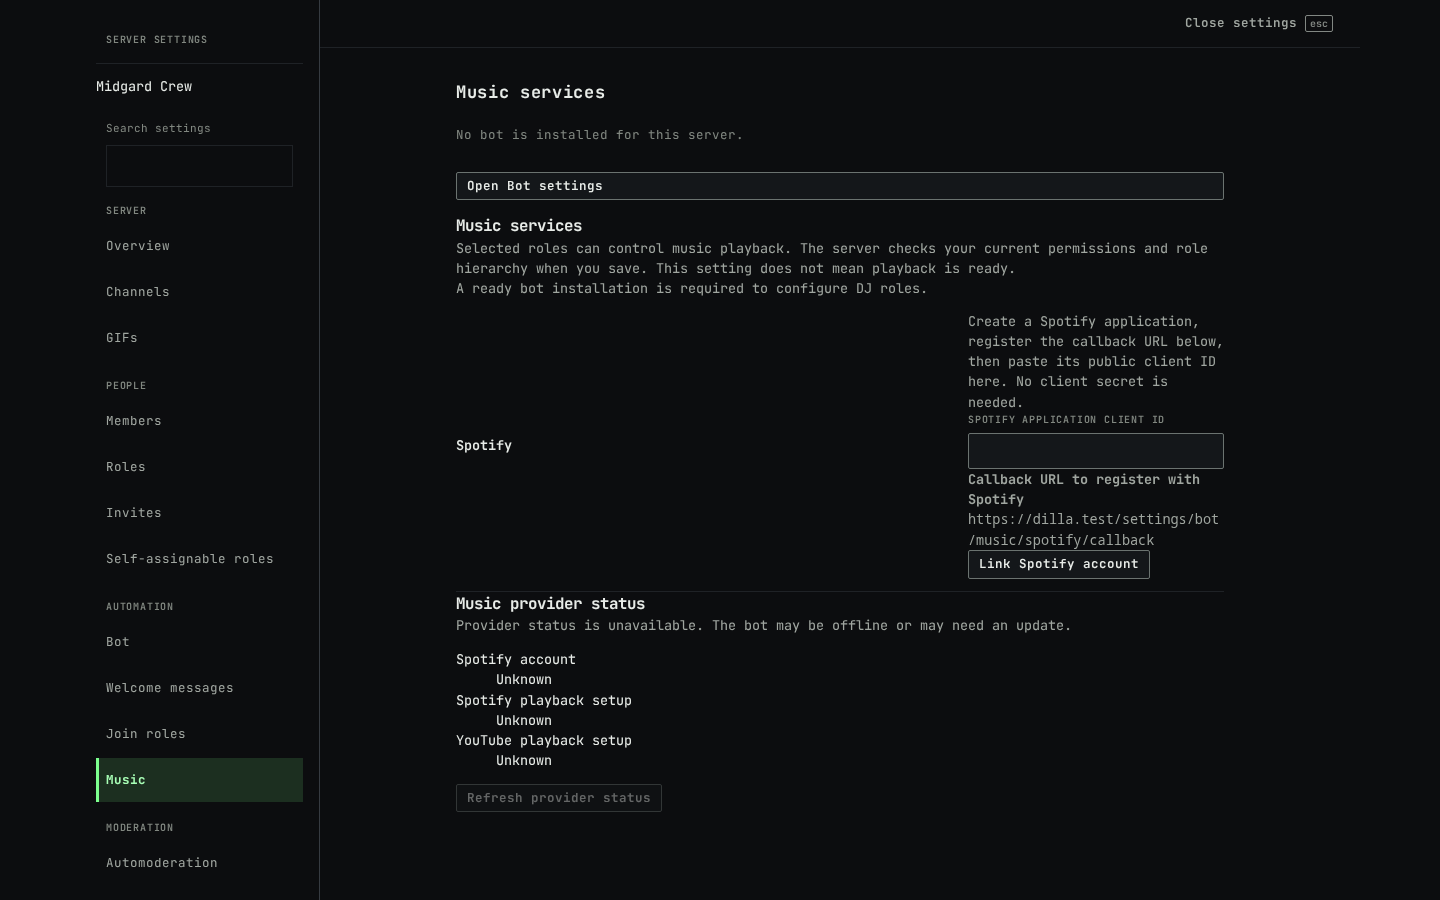
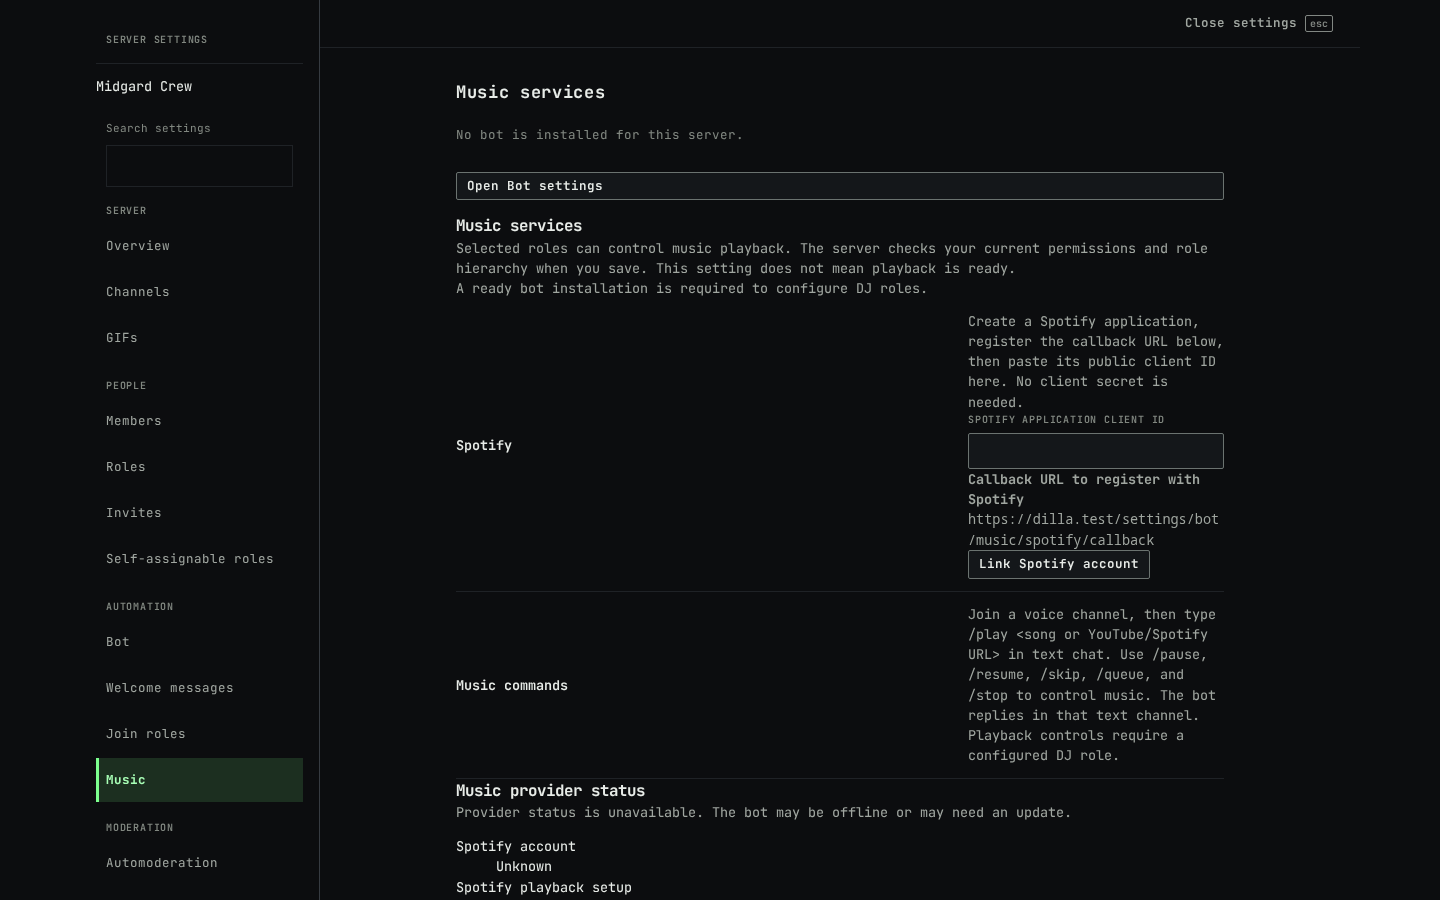
fix(core): retain authenticated provider observation responses

Changed region(s): [[0.5, 0.6533, 0.8438, 0.84], [0.3125, 0.6533, 0.4688, 0.9022], [0.3125, 0.9333, 0.4375, 0.9956]]

diff --git a/core/dilla-core/src/client/human_interaction_events.rs b/core/dilla-core/src/client/human_interaction_events.rs
@@ -40,11 +40,16 @@ fn response_matches_request(
     ) else {
         return false;
     };
-    ((matches!(request.operation, 60 | 64)
+    ((matches!(request.operation, 0 | 24)
         && request.channel_id.is_none()
         && request.revision.is_none()
         && request.expires.is_none()
-        && matches!(request.args, RequestArgs::Cursor(_)))
+        && matches!(request.args, RequestArgs::None))
+        || (matches!(request.operation, 60 | 64)
+            && request.channel_id.is_none()
+            && request.revision.is_none()
+            && request.expires.is_none()
+            && matches!(request.args, RequestArgs::Cursor(_)))
         || (request.operation == 1
             && request.channel_id.is_none()
             && request.revision.is_none()
@@ -647,12 +652,32 @@ mod tests {
             request_body.as_bytes(),
             &[2; 16]
         ));
-        let other_operation = request([1; 16], [2; 16], 0, RequestArgs::None);
-        assert!(!response_matches_request(
-            response([1; 16], [2; 16]).as_bytes(),
-            other_operation.as_bytes(),
-            &[2; 16]
-        ));
+    }
+
+    #[test]
+    fn provider_observation_responses_require_exact_local_request_and_community() {
+        for operation in [0, 24] {
+            let request_body = request([1; 16], [2; 16], operation, RequestArgs::None);
+            assert!(
+                response_matches_request(
+                    response([1; 16], [2; 16]).as_bytes(),
+                    request_body.as_bytes(),
+                    &[2; 16]
+                ),
+                "operation {operation}"
+            );
+            for (request_id, response_community, journal_community) in [
+                ([3; 16], [2; 16], [2; 16]),
+                ([1; 16], [4; 16], [2; 16]),
+                ([1; 16], [2; 16], [4; 16]),
+            ] {
+                assert!(!response_matches_request(
+                    response(request_id, response_community).as_bytes(),
+                    request_body.as_bytes(),
+                    &journal_community
+                ));
+            }
+        }
     }
 
     #[test]

diff --git a/core/dilla-core/tests/human_interaction_welcome_acceptance.rs b/core/dilla-core/tests/human_interaction_welcome_acceptance.rs
@@ -340,6 +340,20 @@ fn seed_trust(
 
 #[test]
 fn human_accepts_server_proven_two_leaf_bot_welcome_and_rejects_group_mismatch() {
+    authenticated_response_roundtrip(60);
+}
+
+#[test]
+fn capability_response_survives_authenticated_journal_restart_and_ack() {
+    authenticated_response_roundtrip(0);
+}
+
+#[test]
+fn provider_status_response_survives_authenticated_journal_restart_and_ack() {
+    authenticated_response_roundtrip(24);
+}
+
+fn authenticated_response_roundtrip(operation: u64) {
     let server_key = SigningKey::from_bytes(&[0xa7; 32]);
     let server_public = server_key.verifying_key().to_bytes();
     let mut human = enrolled_human(&server_public);
@@ -610,11 +624,14 @@ fn human_accepts_server_proven_two_leaf_bot_welcome_and_rejects_group_mismatch()
         .bytes(&request_id)
         .bytes(&COMMUNITY)
         .null()
-        .uint(60)
+        .uint(operation)
         .null()
-        .null()
-        .array(1)
         .null();
+    if operation == 60 {
+        bot_request.array(1).null();
+    } else {
+        bot_request.array(0);
+    }
     let bot_request = bot_request.into_vec();
     // Music commands carry the authenticated voice channel in the protocol tuple. Mutations
     // also carry the caller's expected revision and short expiry, while the actor stays implicit.

diff --git a/.superpowers/sdd/2026-10-25-fullscreen-settings/task-7-report.md b/.superpowers/sdd/2026-10-25-fullscreen-settings/task-7-report.md
@@ -24,6 +24,16 @@ No database migration was added.
 
 `MusicProviderStatusSnapshot` has `version`, `installationId`, `observedAt`, `spotifyAccount`, `spotifyAccountReason`, `spotifyPlayback`, `spotifyPlaybackReason`, `youtubePlayback`, and `youtubePlaybackReason`. The TypeScript decoder accepts the CBOR response bytes and returns typed enums.
 
-## Coordination note
+## Final integration
 
-The task brief requires live manageCommunity authorization for operation 24. The settings registry instruction separately gates visibility on `loaded && access.viewAuditLog === true`. These permissions differ; a member with only `viewAuditLog` can see the registry entry but the status operation returns forbidden. Primary should align those two gates if that is not the intended policy.
+The registry gates Music with `manageCommunity`; `viewAuditLog` gates only the
+separate Moderation log section. Runtime authorization remains authoritative.
+
+Live-browser acceptance found that the Rust human response journal still excluded
+both overview operation 0 and provider-status operation 24. The response allowlist
+now admits their exact read-only shapes while retaining request/community matching
+and the existing authenticated-sender checks. A regression failed before the fix.
+Unit tests and encrypted round-trip fixtures cover both operations, including
+journal persistence, replay deduplication and acknowledgement after a core restart.
+The music browser fixture now requires a fresh runtime observation (Spotify Not
+linked and YouTube Configured for its clean installation) before testing playback.

diff --git a/.superpowers/sdd/2026-10-25-fullscreen-settings/task-9-browser-report.md b/.superpowers/sdd/2026-10-25-fullscreen-settings/task-9-browser-report.md
@@ -36,6 +36,14 @@ The Music view was measured on the final Close-label build at 1440×900: setting
 
 Actual 200% browser zoom and a physical mobile keyboard were not exercised. The 720×450 viewport is the tested short-height/keyboard-height case.
 
+## Integration with updated main
+
+After merging main's music chat commands and connectivity fixes (`1d50f59c`), the
+focused Chromium batch passed all four cases: music chat commands, Bot response
+recovery across restarts/devices, Automod, and fullscreen layout grammar. Only the
+Music screenshot was refreshed to include chat-command guidance alongside provider
+status; it retains the testhost's truthful unavailable state.
+
 ## Final CI
 
 The complete browser suite is still required in CI after the fixture commit. Focused tests are not a substitute for that matrix.

diff --git a/docs/superpowers/plans/2026-10-25-fullscreen-settings.md b/docs/superpowers/plans/2026-10-25-fullscreen-settings.md
@@ -3,6 +3,11 @@
 Approved implementation plan supplied by the user on 2026-10-25. Baseline:
 fresh `origin/main`, `4b5ca243`. Deliver one reviewed PR; no merge or deployment.
 
+During acceptance the user also approved repairing the reproduced music playback
+reconnect failure. The implementation incorporates main's subsequent music chat
+commands and connectivity changes (`1d50f59c`), then verifies provider observations
+and actual playback together. Spotify playback remains a separate acceptance check.
+
 ## Binding design
 
 Evolve SettingsFrame/SettingsNav into native fullscreen modal workspaces. Keep
